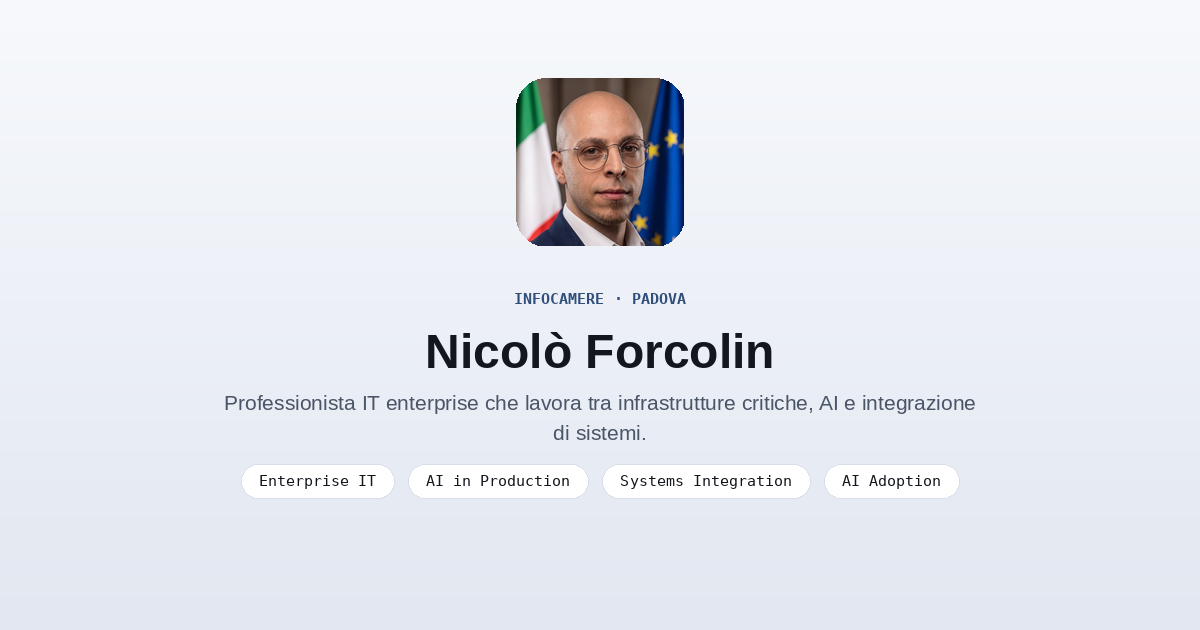
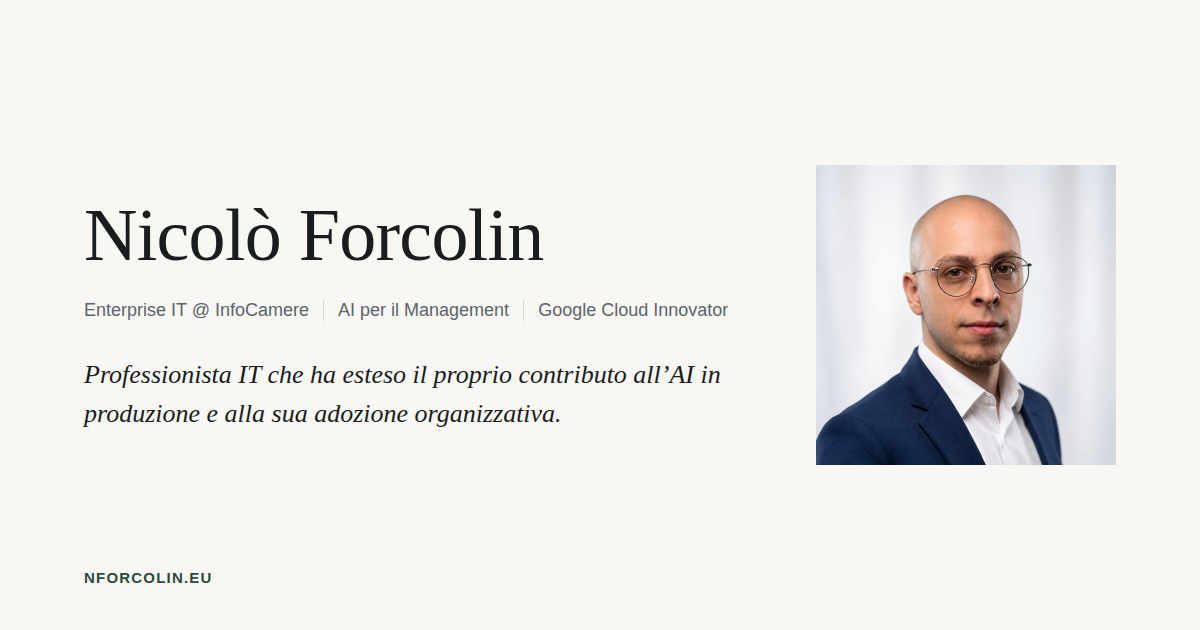
Rigenera og-image.png e rimuove chiavi i18n orfane (#224)
- og-image.png rifletteva ancora il vecchio design navy/blu con foto,
  tagline e palette precedenti; rigenerata per riflettere il design
  "Smart Casual Istituzionale" attuale (palette, tipografia, bio e
  hero_proof correnti)
- rimosse ~35 chiavi del dizionario i18n (IT/EN/FR) rimaste orfane da
  sezioni eliminate in PR precedenti: Perspectives/Articoli (inclusi i
  due articoli lunghi), Competenze/skills, capabilities links,
  eyebrow_role, nav_profilo, hero_nav_label, hero_proof4, e i metadata
  della sezione Contatti rimossa in PR #218. Nessuna era più
  referenziata da index.html.

diff --git a/script.js b/script.js
@@ -6,16 +6,12 @@
       copy_email:"Copia email", copy_phone:"Copia numero di telefono", copy_done:"Copiato negli appunti",
       cm_title:"Informazioni di contatto", cm_phone:"Telefono", cm_cert:"Certificazioni", cm_linkedin:"LinkedIn",
       nav_contatti:"Contatti",
-      nav_profilo:"Profilo",
-      eyebrow_role:"InfoCamere · Padova",
       hero_cta1:"Esplora il mio lavoro",
       sec_chisono:"Bio",
       chisono_p:"Professionista IT che ha esteso il proprio contributo all’AI in produzione e alla sua adozione organizzativa.",
       sec_results_title:"Risultati",
       sec_work_title:"Progetti",
-      sec_skills_title:"Con quali competenze",
       sec_path_title:"Percorso",
-      sec_thinking_title:"Come ragiono",
       proof_label:"Risultati",
       p5k:"Sistemi in produzione", p5d:"Documentazione aziendale e storico Jira, con un manuale operativo per l’adozione.", p5_link:"Vedi i progetti →",
       p1k:"AI Advisory", p1d:"Advisory AI per due business unit interne e un CEO.", p1_link:"Vedi il percorso →",
@@ -26,16 +22,6 @@
       work_view:"Vedi il progetto →",
       c1_summary:"La conoscenza era distribuita tra documenti e ticket Jira. Ho implementato due sistemi RAG in produzione e un manuale operativo per i diversi contesti d’uso.",
       c2_summary:"Per valutare l’AI in contesti a dati sensibili, ho preparato dataset, adattato modelli e realizzato demo con inferenza locale.",
-      sec_perspectives:"Articoli",
-      persp1_meta:"Prospettiva 01 · 2026",
-      persp_read:"Leggi →",
-      persp1_title:"Quando un problema AI smette di essere un problema AI",
-      persp1_excerpt:"Due sistemi RAG in produzione hanno mostrato che il retrieval enterprise richiede anche di progettare come la conoscenza viene organizzata, collegata e governata.",
-      persp1_body:"Implementando due sistemi RAG in produzione pensavo che la parte più difficile sarebbe stata far funzionare bene il modello.\n\nÈ successo quasi il contrario.\n\nProcedure e manuali, anche quando condividono lo stesso formato, organizzano le informazioni in modi diversi. I ticket Jira non contengono sempre tutto il contesto necessario. Parte della conoscenza vive nei documenti, parte nei sistemi e parte nelle persone.\n\nA quel punto la domanda cambia: non solo quanto bene recupera il sistema, ma quale conoscenza deve essere resa disponibile, come deve essere strutturata, quali fonti devono essere collegate e quali confini informativi devono essere rispettati.\n\nLa qualità del retrieval conta. Il modello conta. Ma in un contesto enterprise una parte sostanziale del lavoro riguarda l'architettura dell'informazione che rende possibile il retrieval stesso.\n\nÈ qui che RAG diventa interessante dal punto di vista Enterprise IT: non perché recupera documenti, ma perché obbliga a progettare come la conoscenza aziendale viene organizzata, collegata e governata.\n\nA quel punto, l'affidabilità del sistema dipende tanto dall'architettura informativa quanto dal modello.",
-      persp2_meta:"Prospettiva 02 · 2026",
-      persp2_title:"Il valore arriva dopo il go-live",
-      persp2_excerpt:"Il deployment rende disponibile uno strumento. Il valore arriva quando affidabilità dei dati, adozione e processi operativi iniziano a convergere.",
-      persp2_body:"A due settimane dal go-live dei sistemi RAG sono emersi alcuni segnali che i test iniziali non avevano evidenziato: tempi di risposta non sempre coerenti, dati incompleti e comportamenti d'uso molto diversi da quelli previsti in fase di sviluppo.\n\nIn produzione, la variabilità delle query ha reso visibili incoerenze informative e limiti di contesto. Anche quando le risposte erano corrette, parte degli utenti continuava a preferire la ricerca manuale. Il problema non era più soltanto tecnico: entravano in gioco fiducia, abitudini operative e qualità percepita dello strumento.\n\nIl valore ha iniziato a emergere quando abbiamo lavorato contemporaneamente su tre dimensioni.\n\nLa prima: qualità e coerenza dei dati. Non serviva perseguire una perfezione teorica, ma rendere le informazioni sufficientemente strutturate, affidabili e coerenti da sostenere l'utilizzo quotidiano.\n\nLa seconda: comprensione dei comportamenti d'uso. Abbiamo osservato come le persone interrogavano realmente il sistema e adattato supporto e documentazione alle esigenze operative. Da qui è nato un manuale articolato su tre livelli: Service Desk, Incident & Problem Management e Middle Management, con obiettivi diversi ma complementari — velocità operativa, gestione delle criticità, analisi e reporting.\n\nLa terza: adozione. Quando qualità dei dati e affidabilità delle risposte sono diventate più consistenti, anche il comportamento degli utenti ha iniziato a cambiare. La fiducia nello strumento non è arrivata con il deployment, ma attraverso l'esperienza d'uso ripetuta e la progressiva integrazione nei processi.\n\nIl deployment rende disponibile uno strumento. L'adozione lo rende utile. Il valore emerge quando affidabilità dei dati, comportamento degli utenti e processi operativi iniziano a convergere.",
       case_problem_label:"Problema", case_solution_label:"Soluzione", case_approach_label:"Approccio", case_impact_label:"Impatto", case_learning_label:"Learning", case_focus_label:"Focus", case_stack_label:"Stack", system_view_label:"System view", c1_map_sources:"Documentazione aziendale · Storico Jira", c1_map_layer:"Retrieval · RAG · Knowledge layer", c1_map_users:"Service Desk · Incident/Problem · Management", c1_map_caption:"Il sistema collega fonti distribuite, retrieval e contesti d’uso operativi: l’affidabilità dipende dall’intera catena, non dal solo modello.", c2_map_data:"Dati sensibili · Dataset controllati", c2_map_runtime:"Infrastruttura locale · Ollama · Modelli", c2_map_output:"Inferenza controllata · Demo operative", c2_map_caption:"L’esplorazione considera insieme dati, runtime, infrastruttura, costi e governance per valutare dove il controllo locale crea valore reale.",
       c1t:"Enterprise Knowledge Retrieval",
       c1_status:"Production · 2026",
@@ -61,36 +47,24 @@
       politica_tag:"Formazione selettiva",
       politica_title:"Meritare l'Europa — Scuola di Formazione Politica, Italia Viva",
       politica_desc:"Selezionato per il percorso 2026 dedicato a cittadinanza attiva, istituzioni e leadership pubblica, con focus su Europa, processi decisionali, innovazione tecnologica e AI.",
-      sec_competenze:"Competenze",
-      sk_cat1:"Enterprise IT", sk1:"Systems Integration · Reliability · Linux/Windows · Automation",
-      sk_cat2:"Enterprise AI", sk2:"RAG · Local AI · LLM · Knowledge Retrieval",
-      sk_cat3:"Cloud & Development", sk3:"Python · GCP · APIs · Application Integration",
-      sk_cat4:"AI Adoption & Governance", sk4:"AI Adoption · Data Protection · Knowledge Management",
-      sk_cat5:"Technology Enablement", sk5:"Advisory · Training · Public Speaking",
-      cap_link_exp:"→ Esperienza", cap_link_work:"→ Caso studio", cap_link_projects:"→ Caso studio",
-      cap_core_label:"Competenze core", cap_ext_label:"Competenze estese",
-      sec_badge:"Credenziali",sec_contacts:"Contatti", contact_linkedin_meta:"Profilo professionale", contact_email_meta:"Contatto diretto", contact_skills_meta:"Certificazioni e learning profile",
+      sec_badge:"Credenziali",
       badge1_title:"Gemini Enterprise Agent Ready", badge1_meta:"Credential · 2026",
       badge2_title:"Google Cloud Innovator", badge2_meta:"Community program · 2025",
       badge3_title:"Google Developer Program — Premium Tier", badge3_meta:"Program status · 2026",
-      nav_main_label:"Navigazione principale", theme_toggle_label:"Cambia tema", hero_proof_label:"Focus professionale", hero_nav_label:"Sezioni della pagina", modal_close_label:"Chiudi",
-      hero_proof1:"Enterprise IT @ InfoCamere", hero_proof2:"AI per il Management", hero_proof3:"Google Cloud Innovator", hero_proof4:"Selezionato per Meritare l’Europa",
+      nav_main_label:"Navigazione principale", theme_toggle_label:"Cambia tema", hero_proof_label:"Focus professionale", modal_close_label:"Chiudi",
+      hero_proof1:"Enterprise IT @ InfoCamere", hero_proof2:"AI per il Management", hero_proof3:"Google Cloud Innovator",
     },
     en: {
       new_tab_hint:" (opens in a new tab)",
       copy_email:"Copy email", copy_phone:"Copy phone number", copy_done:"Copied to clipboard",
       cm_title:"Contact information", cm_phone:"Phone", cm_cert:"Certifications", cm_linkedin:"LinkedIn",
       nav_contatti:"Contact",
-      nav_profilo:"Profile",
-      eyebrow_role:"InfoCamere · Padova",
       hero_cta1:"Explore my work",
       sec_chisono:"Bio",
       chisono_p:"IT professional who has expanded his contribution to AI in production and its organizational adoption.",
       sec_results_title:"Results",
       sec_work_title:"Projects",
-      sec_skills_title:"The capabilities behind it",
       sec_path_title:"Career path",
-      sec_thinking_title:"How I think",
       proof_label:"Results",
       p5k:"Production Systems", p5d:"Corporate documentation and Jira history, with an operating manual to support adoption.", p5_link:"View projects →",
       p1k:"AI Advisory", p1d:"AI advisory for two internal business units and one CEO.", p1_link:"See the path →",
@@ -101,16 +75,6 @@
       work_view:"View project →",
       c1_summary:"Knowledge was spread across documents and Jira tickets. I implemented two production RAG systems and an operating manual for different use cases.",
       c2_summary:"To assess AI in sensitive-data environments, I prepared datasets, adapted models and built demos with local inference.",
-      sec_perspectives:"Articles",
-      persp1_meta:"Perspective 01 · 2026",
-      persp_read:"Read →",
-      persp1_title:"When an AI problem stops being an AI problem",
-      persp1_excerpt:"Two RAG systems in production showed that enterprise retrieval also requires designing how knowledge is organized, connected and governed.",
-      persp1_body:"Implementing two RAG systems in production, I expected the hardest part to be making the model work well.\n\nWhat happened was almost the opposite.\n\nProcedures and manuals, even when they share the same format, organize information differently. Jira tickets do not always contain all the context required. Part of the knowledge lives in documents, part in systems, and part in people.\n\nAt that point, the question changes: not only how well the system retrieves information, but which knowledge should be made available, how it should be structured, which sources should be connected, and which information boundaries must be respected.\n\nRetrieval quality matters. The model matters. But in an enterprise context, a substantial part of the work is the information architecture that makes retrieval possible in the first place.\n\nThis is where RAG becomes interesting from an Enterprise IT perspective: not because it retrieves documents, but because it forces decisions about how enterprise knowledge is organized, connected and governed.\n\nAt that point, system reliability depends as much on information architecture as it does on the model.",
-      persp2_meta:"Perspective 02 · 2026",
-      persp2_title:"Value comes after go-live",
-      persp2_excerpt:"Deployment makes a tool available. Value arrives when data reliability, adoption and operational processes begin to converge.",
-      persp2_body:"Two weeks after the RAG systems went live, several signals appeared that initial testing had not exposed: inconsistent response times, incomplete data and usage patterns that differed significantly from those anticipated during development.\n\nIn production, the variability of real queries made information inconsistencies and context gaps visible. Even when answers were correct, some users still preferred manual search. The issue was no longer purely technical: trust, operational habits and perceived reliability had become part of the system.\n\nValue began to emerge when we worked on three dimensions at the same time.\n\nFirst: data quality and consistency. The goal was not theoretical perfection, but information structured and reliable enough to support everyday use.\n\nSecond: understanding actual usage. We observed how people queried the system and adapted support and documentation to operational needs. This led to an operating manual structured across three levels: Service Desk, Incident & Problem Management and Middle Management — supporting operational speed, issue management, analysis and reporting.\n\nThird: adoption. As data quality and answer reliability became more consistent, user behavior started to change as well. Trust did not arrive with deployment; it developed through repeated use and progressive integration into operational processes.\n\nDeployment makes a tool available. Adoption makes it useful. Value emerges when data reliability, user behavior and operational processes begin to converge.",
       case_problem_label:"Problem", case_solution_label:"Solution", case_approach_label:"Approach", case_impact_label:"Impact", case_learning_label:"Learning", case_focus_label:"Focus", case_stack_label:"Stack", system_view_label:"System view", c1_map_sources:"Corporate documentation · Jira history", c1_map_layer:"Retrieval · RAG · Knowledge layer", c1_map_users:"Service Desk · Incident/Problem · Management", c1_map_caption:"The system connects distributed sources, retrieval and operational contexts: reliability depends on the whole chain, not on the model alone.", c2_map_data:"Sensitive data · Controlled datasets", c2_map_runtime:"Local infrastructure · Ollama · Models", c2_map_output:"Controlled inference · Operational demos", c2_map_caption:"The exploration considers data, runtime, infrastructure, costs and governance together to evaluate where local control creates real value.",
       c1t:"Enterprise Knowledge Retrieval",
       c1_status:"Production · 2026",
@@ -136,36 +100,24 @@
       politica_tag:"Selective education",
       politica_title:"Meritare l'Europa — School of Political Education, Italia Viva",
       politica_desc:"Selected for the 2026 program focused on active citizenship, institutions and public leadership, with a focus on Europe, decision-making processes, technological innovation and AI.",
-      sec_competenze:"Skills",
-      sk_cat1:"Enterprise IT", sk1:"Systems Integration · Reliability · Linux/Windows · Automation",
-      sk_cat2:"Enterprise AI", sk2:"RAG · Local AI · LLM · Knowledge Retrieval",
-      sk_cat3:"Cloud & Development", sk3:"Python · GCP · APIs · Application Integration",
-      sk_cat4:"AI Adoption & Governance", sk4:"AI Adoption · Data Protection · Knowledge Management",
-      sk_cat5:"Technology Enablement", sk5:"Advisory · Training · Public Speaking",
-      cap_link_exp:"→ Experience", cap_link_work:"→ Case study", cap_link_projects:"→ Case study",
-      cap_core_label:"Core capabilities", cap_ext_label:"Extended capabilities",
-      sec_badge:"Credentials",sec_contacts:"Contacts", contact_linkedin_meta:"Professional profile", contact_email_meta:"Direct contact", contact_skills_meta:"Credentials and learning profile",
+      sec_badge:"Credentials",
       badge1_title:"Gemini Enterprise Agent Ready", badge1_meta:"Credential · 2026",
       badge2_title:"Google Cloud Innovator", badge2_meta:"Community program · 2025",
       badge3_title:"Google Developer Program — Premium Tier", badge3_meta:"Program status · 2026",
-      nav_main_label:"Main navigation", theme_toggle_label:"Toggle theme", hero_proof_label:"Professional focus", hero_nav_label:"Page sections", modal_close_label:"Close",
-      hero_proof1:"Enterprise IT @ InfoCamere", hero_proof2:"AI for Management", hero_proof3:"Google Cloud Innovator", hero_proof4:"Selected for Meritare l’Europa",
+      nav_main_label:"Main navigation", theme_toggle_label:"Toggle theme", hero_proof_label:"Professional focus", modal_close_label:"Close",
+      hero_proof1:"Enterprise IT @ InfoCamere", hero_proof2:"AI for Management", hero_proof3:"Google Cloud Innovator",
     },
     fr: {
       new_tab_hint:" (s'ouvre dans un nouvel onglet)",
       copy_email:"Copier l'e-mail", copy_phone:"Copier le numéro de téléphone", copy_done:"Copié dans le presse-papiers",
       cm_title:"Coordonnées", cm_phone:"Téléphone", cm_cert:"Certifications", cm_linkedin:"LinkedIn",
       nav_contatti:"Contact",
-      nav_profilo:"Profil",
-      eyebrow_role:"InfoCamere · Padova",
       hero_cta1:"Découvrir mon travail",
       sec_chisono:"Bio",
       chisono_p:"Professionnel IT qui a élargi sa contribution à l’IA en production et à son adoption organisationnelle.",
       sec_results_title:"Résultats",
       sec_work_title:"Projets",
-      sec_skills_title:"Les compétences mobilisées",
       sec_path_title:"Parcours",
-      sec_thinking_title:"Ma façon de penser",
       proof_label:"Résultats",
       p5k:"Production Systems", p5d:"Documentation d’entreprise et historique Jira, avec un manuel opérationnel pour accompagner l’adoption.", p5_link:"Voir les projets →",
       p1k:"AI Advisory", p1d:"Conseil en IA pour deux unités internes et un CEO.", p1_link:"Voir le parcours →",
@@ -176,16 +128,6 @@
       work_view:"Voir le projet →",
       c1_summary:"Les connaissances étaient réparties entre documents et tickets Jira. J’ai mis en production deux systèmes RAG et rédigé un manuel opérationnel adapté aux usages.",
       c2_summary:"Pour évaluer l’IA dans des environnements à données sensibles, j’ai préparé des jeux de données, adapté des modèles et réalisé des démonstrations en local.",
-      sec_perspectives:"Articles",
-      persp1_meta:"Perspective 01 · 2026",
-      persp_read:"Lire →",
-      persp1_title:"Quand un problème d'IA cesse d'être un problème d'IA",
-      persp1_excerpt:"Deux systèmes RAG en production ont montré que le retrieval d’entreprise exige aussi de concevoir comment la connaissance est organisée, reliée et gouvernée.",
-      persp1_body:"En mettant en œuvre deux systèmes RAG en production, je pensais que la partie la plus difficile serait de faire fonctionner correctement le modèle.\n\nC'est presque l'inverse qui s'est produit.\n\nLes procédures et les manuels, même lorsqu'ils partagent le même format, organisent l'information de façons différentes. Les tickets Jira ne contiennent pas toujours tout le contexte nécessaire. Une partie de la connaissance vit dans les documents, une partie dans les systèmes et une partie dans les personnes.\n\nÀ ce stade, la question change : il ne s'agit plus seulement de savoir si le système récupère bien l'information, mais de décider quelles connaissances doivent être rendues disponibles, comment les structurer, quelles sources relier et quelles frontières informationnelles respecter.\n\nLa qualité du retrieval compte. Le modèle compte. Mais dans un contexte d'entreprise, une part substantielle du travail concerne l'architecture de l'information qui rend ce retrieval possible.\n\nC'est là que le RAG devient intéressant du point de vue de l'IT d'entreprise : non parce qu'il récupère des documents, mais parce qu'il oblige à décider comment la connaissance de l'organisation doit être structurée, reliée et gouvernée.\n\nÀ ce stade, la fiabilité du système dépend autant de l'architecture de l'information que du modèle.",
-      persp2_meta:"Perspective 02 · 2026",
-      persp2_title:"La valeur arrive après la mise en production",
-      persp2_excerpt:"Le déploiement rend un outil disponible. La valeur apparaît lorsque fiabilité des données, adoption et processus opérationnels commencent à converger.",
-      persp2_body:"Deux semaines après la mise en production des systèmes RAG, plusieurs signaux sont apparus que les tests initiaux n'avaient pas révélés : des temps de réponse irréguliers, des données incomplètes et des usages sensiblement différents de ceux anticipés pendant le développement.\n\nEn production, la variété des requêtes réelles a rendu visibles des incohérences informationnelles et des lacunes de contexte. Même lorsque les réponses étaient correctes, certains utilisateurs continuaient à préférer la recherche manuelle. Le sujet n'était plus seulement technique : la confiance, les habitudes opérationnelles et la fiabilité perçue faisaient désormais partie du système.\n\nLa valeur a commencé à émerger lorsque nous avons travaillé simultanément sur trois dimensions.\n\nPremièrement : la qualité et la cohérence des données. L'objectif n'était pas une perfection théorique, mais des informations suffisamment structurées et fiables pour soutenir l'usage quotidien.\n\nDeuxièmement : la compréhension des usages réels. Nous avons observé la manière dont les personnes interrogeaient le système et adapté l'accompagnement et la documentation aux besoins opérationnels. Cela a conduit à un manuel structuré sur trois niveaux : Service Desk, Incident & Problem Management et Middle Management — pour soutenir rapidité opérationnelle, gestion des incidents, analyse et reporting.\n\nTroisièmement : l'adoption. À mesure que la qualité des données et la fiabilité des réponses devenaient plus constantes, les comportements ont commencé à évoluer. La confiance n'est pas arrivée avec le déploiement ; elle s'est construite par l'usage répété et l'intégration progressive dans les processus.\n\nLe déploiement rend un outil disponible. L'adoption le rend utile. La valeur apparaît lorsque fiabilité des données, usages et processus opérationnels commencent à converger.",
       case_problem_label:"Problème", case_solution_label:"Solution", case_approach_label:"Approche", case_impact_label:"Impact", case_learning_label:"Learning", case_focus_label:"Focus", case_stack_label:"Stack", system_view_label:"System view", c1_map_sources:"Documentation d’entreprise · Historique Jira", c1_map_layer:"Retrieval · RAG · Knowledge layer", c1_map_users:"Service Desk · Incident/Problem · Management", c1_map_caption:"Le système relie des sources distribuées, le retrieval et les contextes opérationnels : la fiabilité dépend de toute la chaîne, pas seulement du modèle.", c2_map_data:"Données sensibles · Jeux de données contrôlés", c2_map_runtime:"Infrastructure locale · Ollama · Modèles", c2_map_output:"Inférence contrôlée · Démonstrations opérationnelles", c2_map_caption:"L’exploration considère ensemble les données, le runtime, l’infrastructure, les coûts et la gouvernance afin d’évaluer où le contrôle local crée une valeur réelle.",
       c1t:"Enterprise Knowledge Retrieval",
       c1_status:"Production · 2026",
@@ -211,20 +153,12 @@
       politica_tag:"Formation sélective",
       politica_title:"Meritare l'Europa — École de formation politique, Italia Viva",
       politica_desc:"Sélectionné pour le programme 2026 consacré à la citoyenneté active, aux institutions et au leadership public, avec un focus sur l'Europe, les processus décisionnels, l'innovation technologique et l'IA.",
-      sec_competenze:"Compétences",
-      sk_cat1:"Enterprise IT", sk1:"Systems Integration · Reliability · Linux/Windows · Automation",
-      sk_cat2:"Enterprise AI", sk2:"RAG · Local AI · LLM · Knowledge Retrieval",
-      sk_cat3:"Cloud & Development", sk3:"Python · GCP · APIs · Application Integration",
-      sk_cat4:"AI Adoption & Governance", sk4:"AI Adoption · Data Protection · Knowledge Management",
-      sk_cat5:"Technology Enablement", sk5:"Advisory · Training · Public Speaking",
-      cap_link_exp:"→ Experience", cap_link_work:"→ Case study", cap_link_projects:"→ Case study",
-      cap_core_label:"Compétences clés", cap_ext_label:"Compétences complémentaires",
-      sec_badge:"Accréditations",sec_contacts:"Contacts", contact_linkedin_meta:"Profil professionnel", contact_email_meta:"Contact direct", contact_skills_meta:"Certifications et profil de formation",
+      sec_badge:"Accréditations",
       badge1_title:"Gemini Enterprise Agent Ready", badge1_meta:"Credential · 2026",
       badge2_title:"Google Cloud Innovator", badge2_meta:"Community program · 2025",
       badge3_title:"Google Developer Program — Premium Tier", badge3_meta:"Program status · 2026",
-      nav_main_label:"Navigation principale", theme_toggle_label:"Changer de thème", hero_proof_label:"Axes professionnels", hero_nav_label:"Sections de la page", modal_close_label:"Fermer",
-      hero_proof1:"Enterprise IT @ InfoCamere", hero_proof2:"IA pour le Management", hero_proof3:"Google Cloud Innovator", hero_proof4:"Sélectionné pour Meritare l’Europa",
+      nav_main_label:"Navigation principale", theme_toggle_label:"Changer de thème", hero_proof_label:"Axes professionnels", modal_close_label:"Fermer",
+      hero_proof1:"Enterprise IT @ InfoCamere", hero_proof2:"IA pour le Management", hero_proof3:"Google Cloud Innovator",
     }
   };
 
